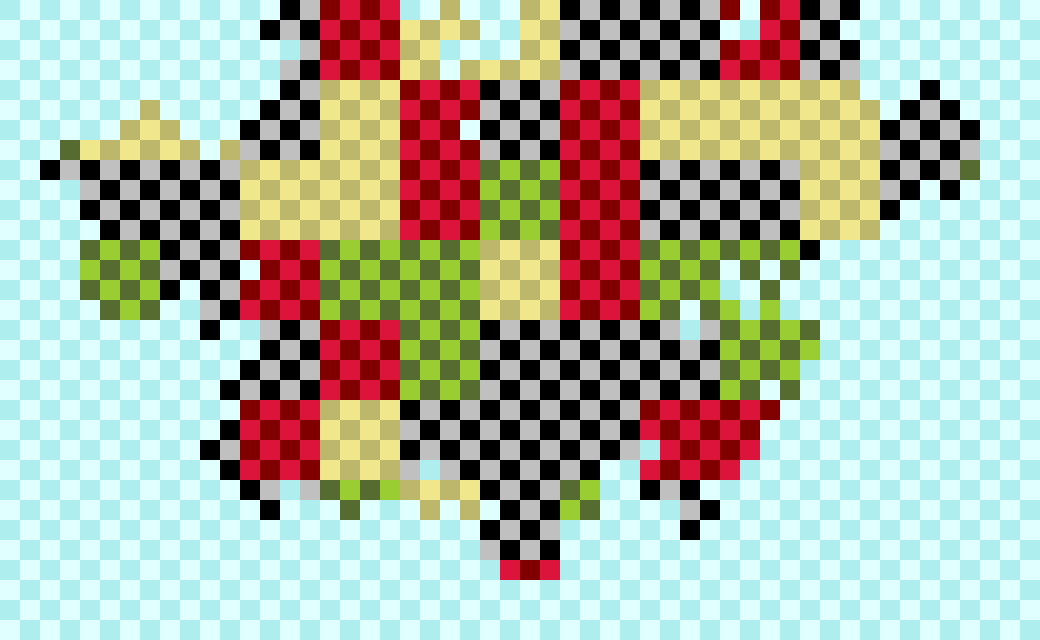
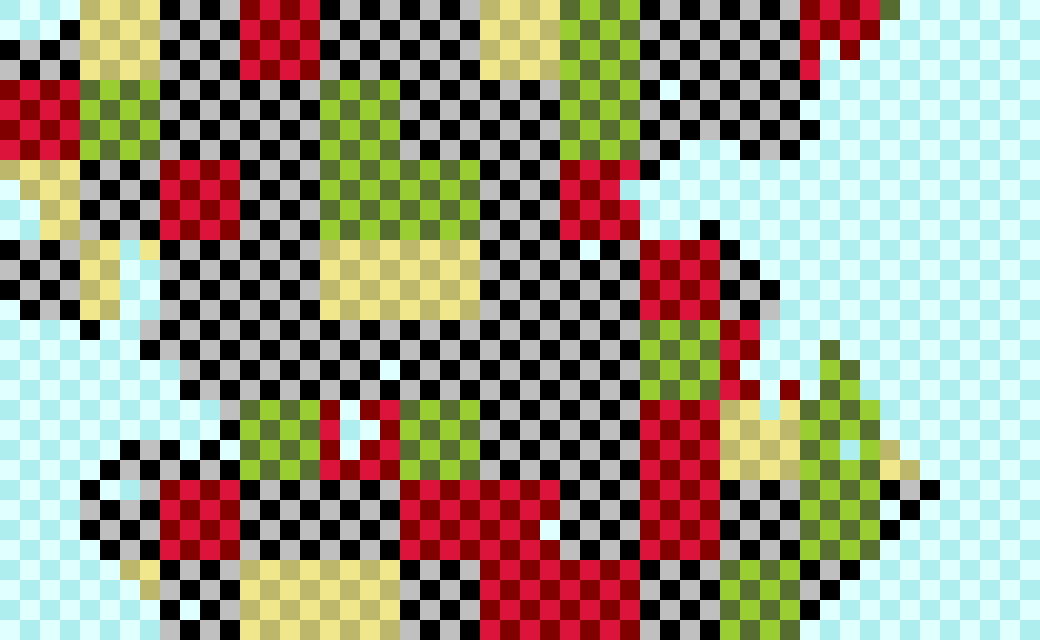
Adding maps

diff --git a/src/components/chunkmap.py b/src/components/chunkmap.py
@@ -3,8 +3,6 @@ from random import choice
 from termcolor import colored, cprint
 from PIL import Image
 
-import settings
-
 DARK = True
 resource_list = [
     "stone", "stone",
@@ -21,7 +19,7 @@ resource_list = [
     "empty", "empty", "empty"
     ]
 
-CHUNK_SIZE = settings.CHUNK_SIZE
+CHUNK_SIZE = 4
 
 class Square:
 
@@ -246,6 +244,5 @@ if __name__ == "__main__" :
     h = 8
     map = ChunkMap(w, h, 20)
     map.makeIsland(int(w*CHUNK_SIZE/2), int(h*CHUNK_SIZE/2), 75)
-    map.print()
     map.saveAsPNG("../maps/map1.png")
     map.saveAsTxt("../maps/map1.txt")
